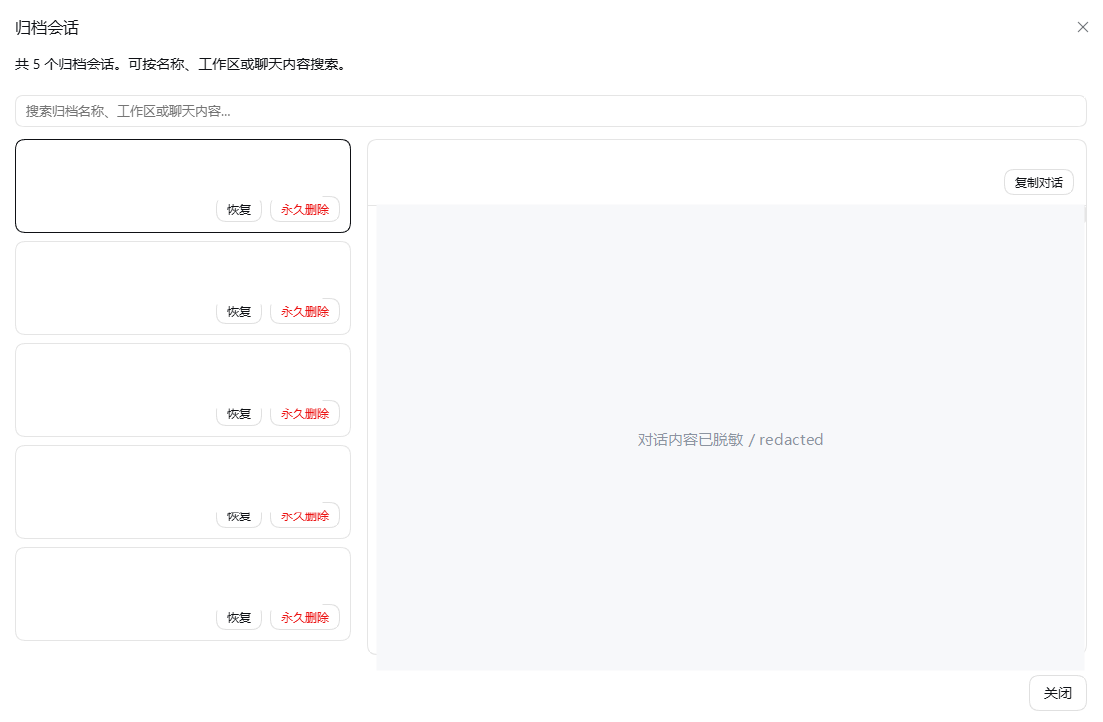
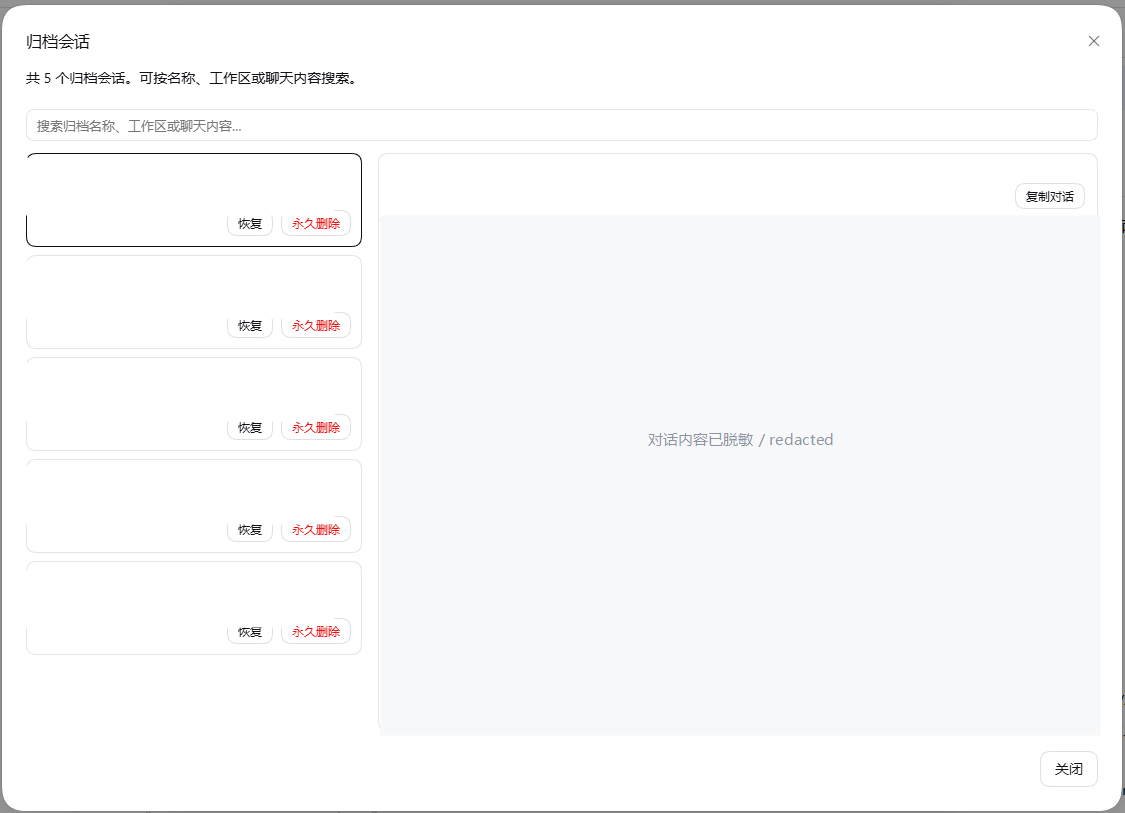
docs: refresh README screenshots to the current UI (redacted)

diff --git a/README.en.md b/README.en.md
@@ -57,7 +57,9 @@ contexts, not words you typed, so they are labelled **system-injected** instead 
 such as `AGENTS.md` **render as Markdown**, next to the list of files involved and whether each was added,
 updated or removed, with the verbatim injected text one click away.
 Search counts its matches, scrolls to and outlines the first matching turn, highlights plain-text matches
-in both panes, and a date line separates days. The same surface has three entry points: the **Archived
+in both panes, and — with several hits — lets you walk them with the **↑ / ↓** buttons in the detail head
+or **Enter / Shift+Enter** (the active hit gets a stronger outline). A date line separates days. The same
+surface has three entry points: the **Archived
 sessions** section in Settings, **View archived transcript** in an archived row's "…" menu, and a direct
 click on an archived session row in the sidebar.
 
@@ -71,7 +73,7 @@ click on an archived session row in the sidebar.
 
 <img src="https://raw.githubusercontent.com/WindAndWood/dsh-chat-manager-wide/main/docs/assets/archive-transcript.png" alt="Archived sessions: list on the left, transcript on the right, folded injections and tool cards" width="1103">
 
-<img src="https://raw.githubusercontent.com/WindAndWood/dsh-chat-manager-wide/main/docs/assets/archive-search.png" alt="Archived content search: match count, outlined first hit, highlighted snippet" width="1104">
+<img src="https://raw.githubusercontent.com/WindAndWood/dsh-chat-manager-wide/main/docs/assets/archive-search.png" alt="Archived content search: match count, ↑/↓ navigation, highlighted snippet" width="1104">
 
 > Real session names, workspaces and conversation content are masked in these screenshots.
 
